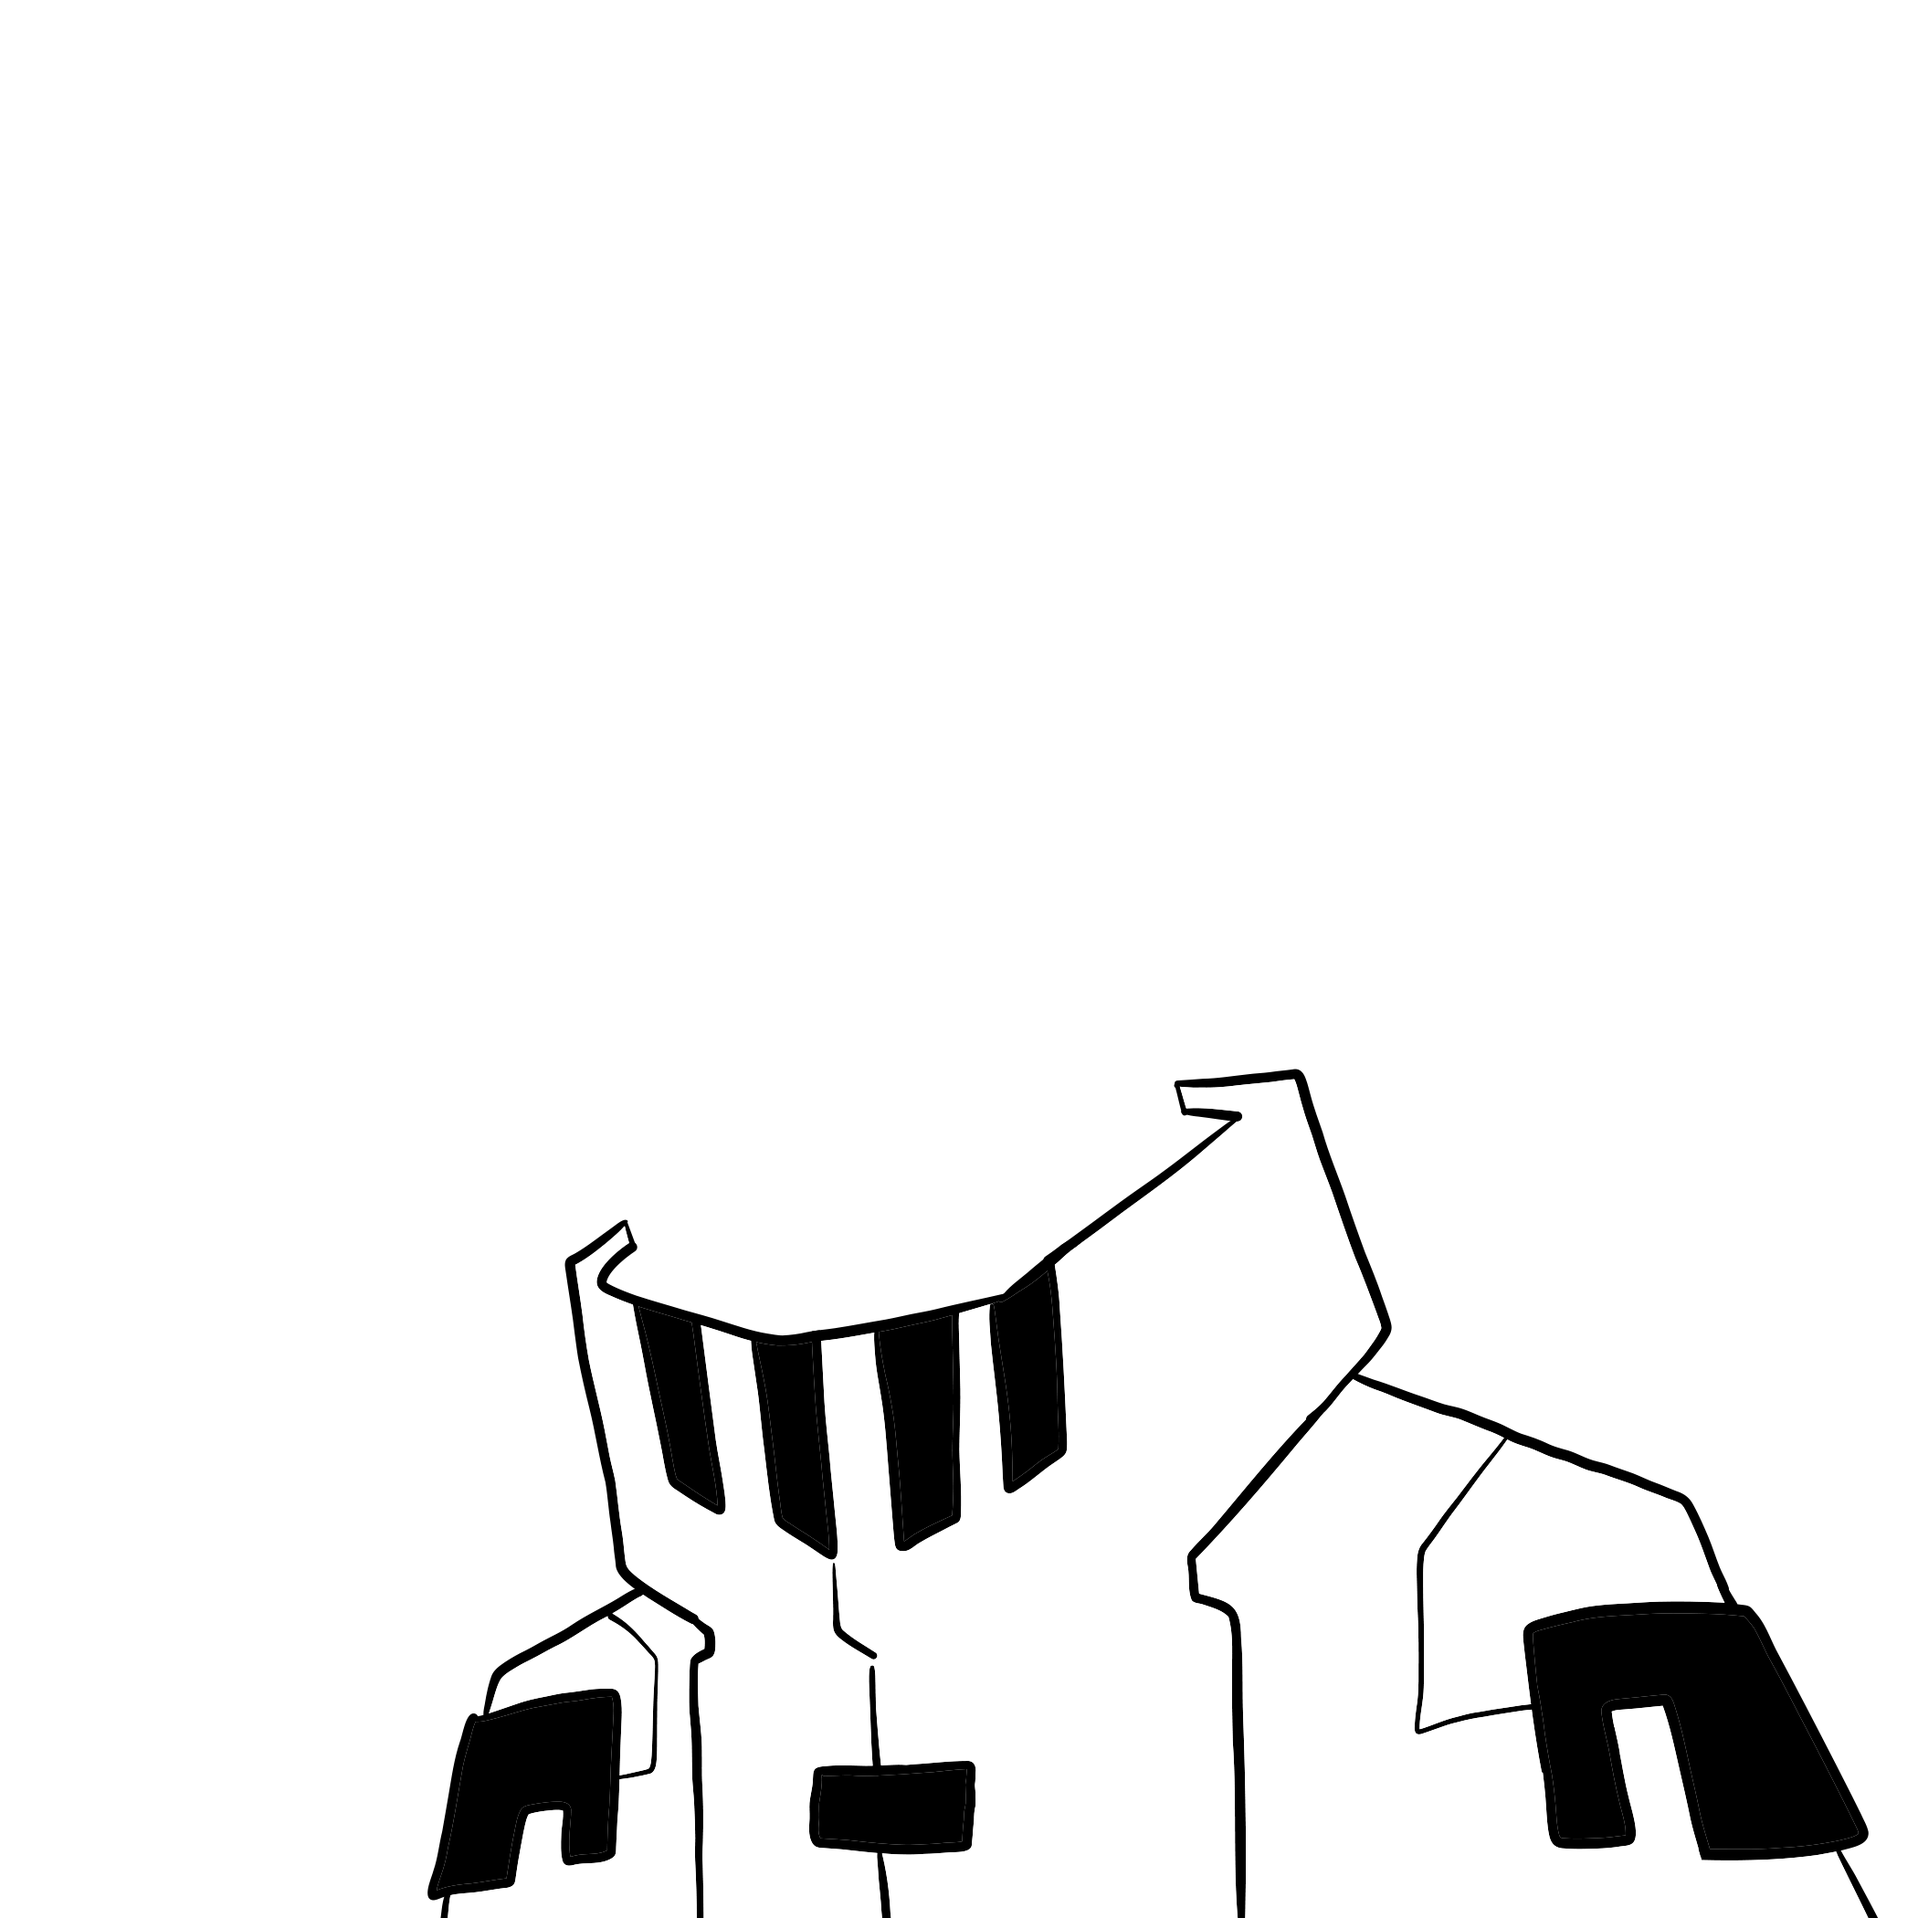
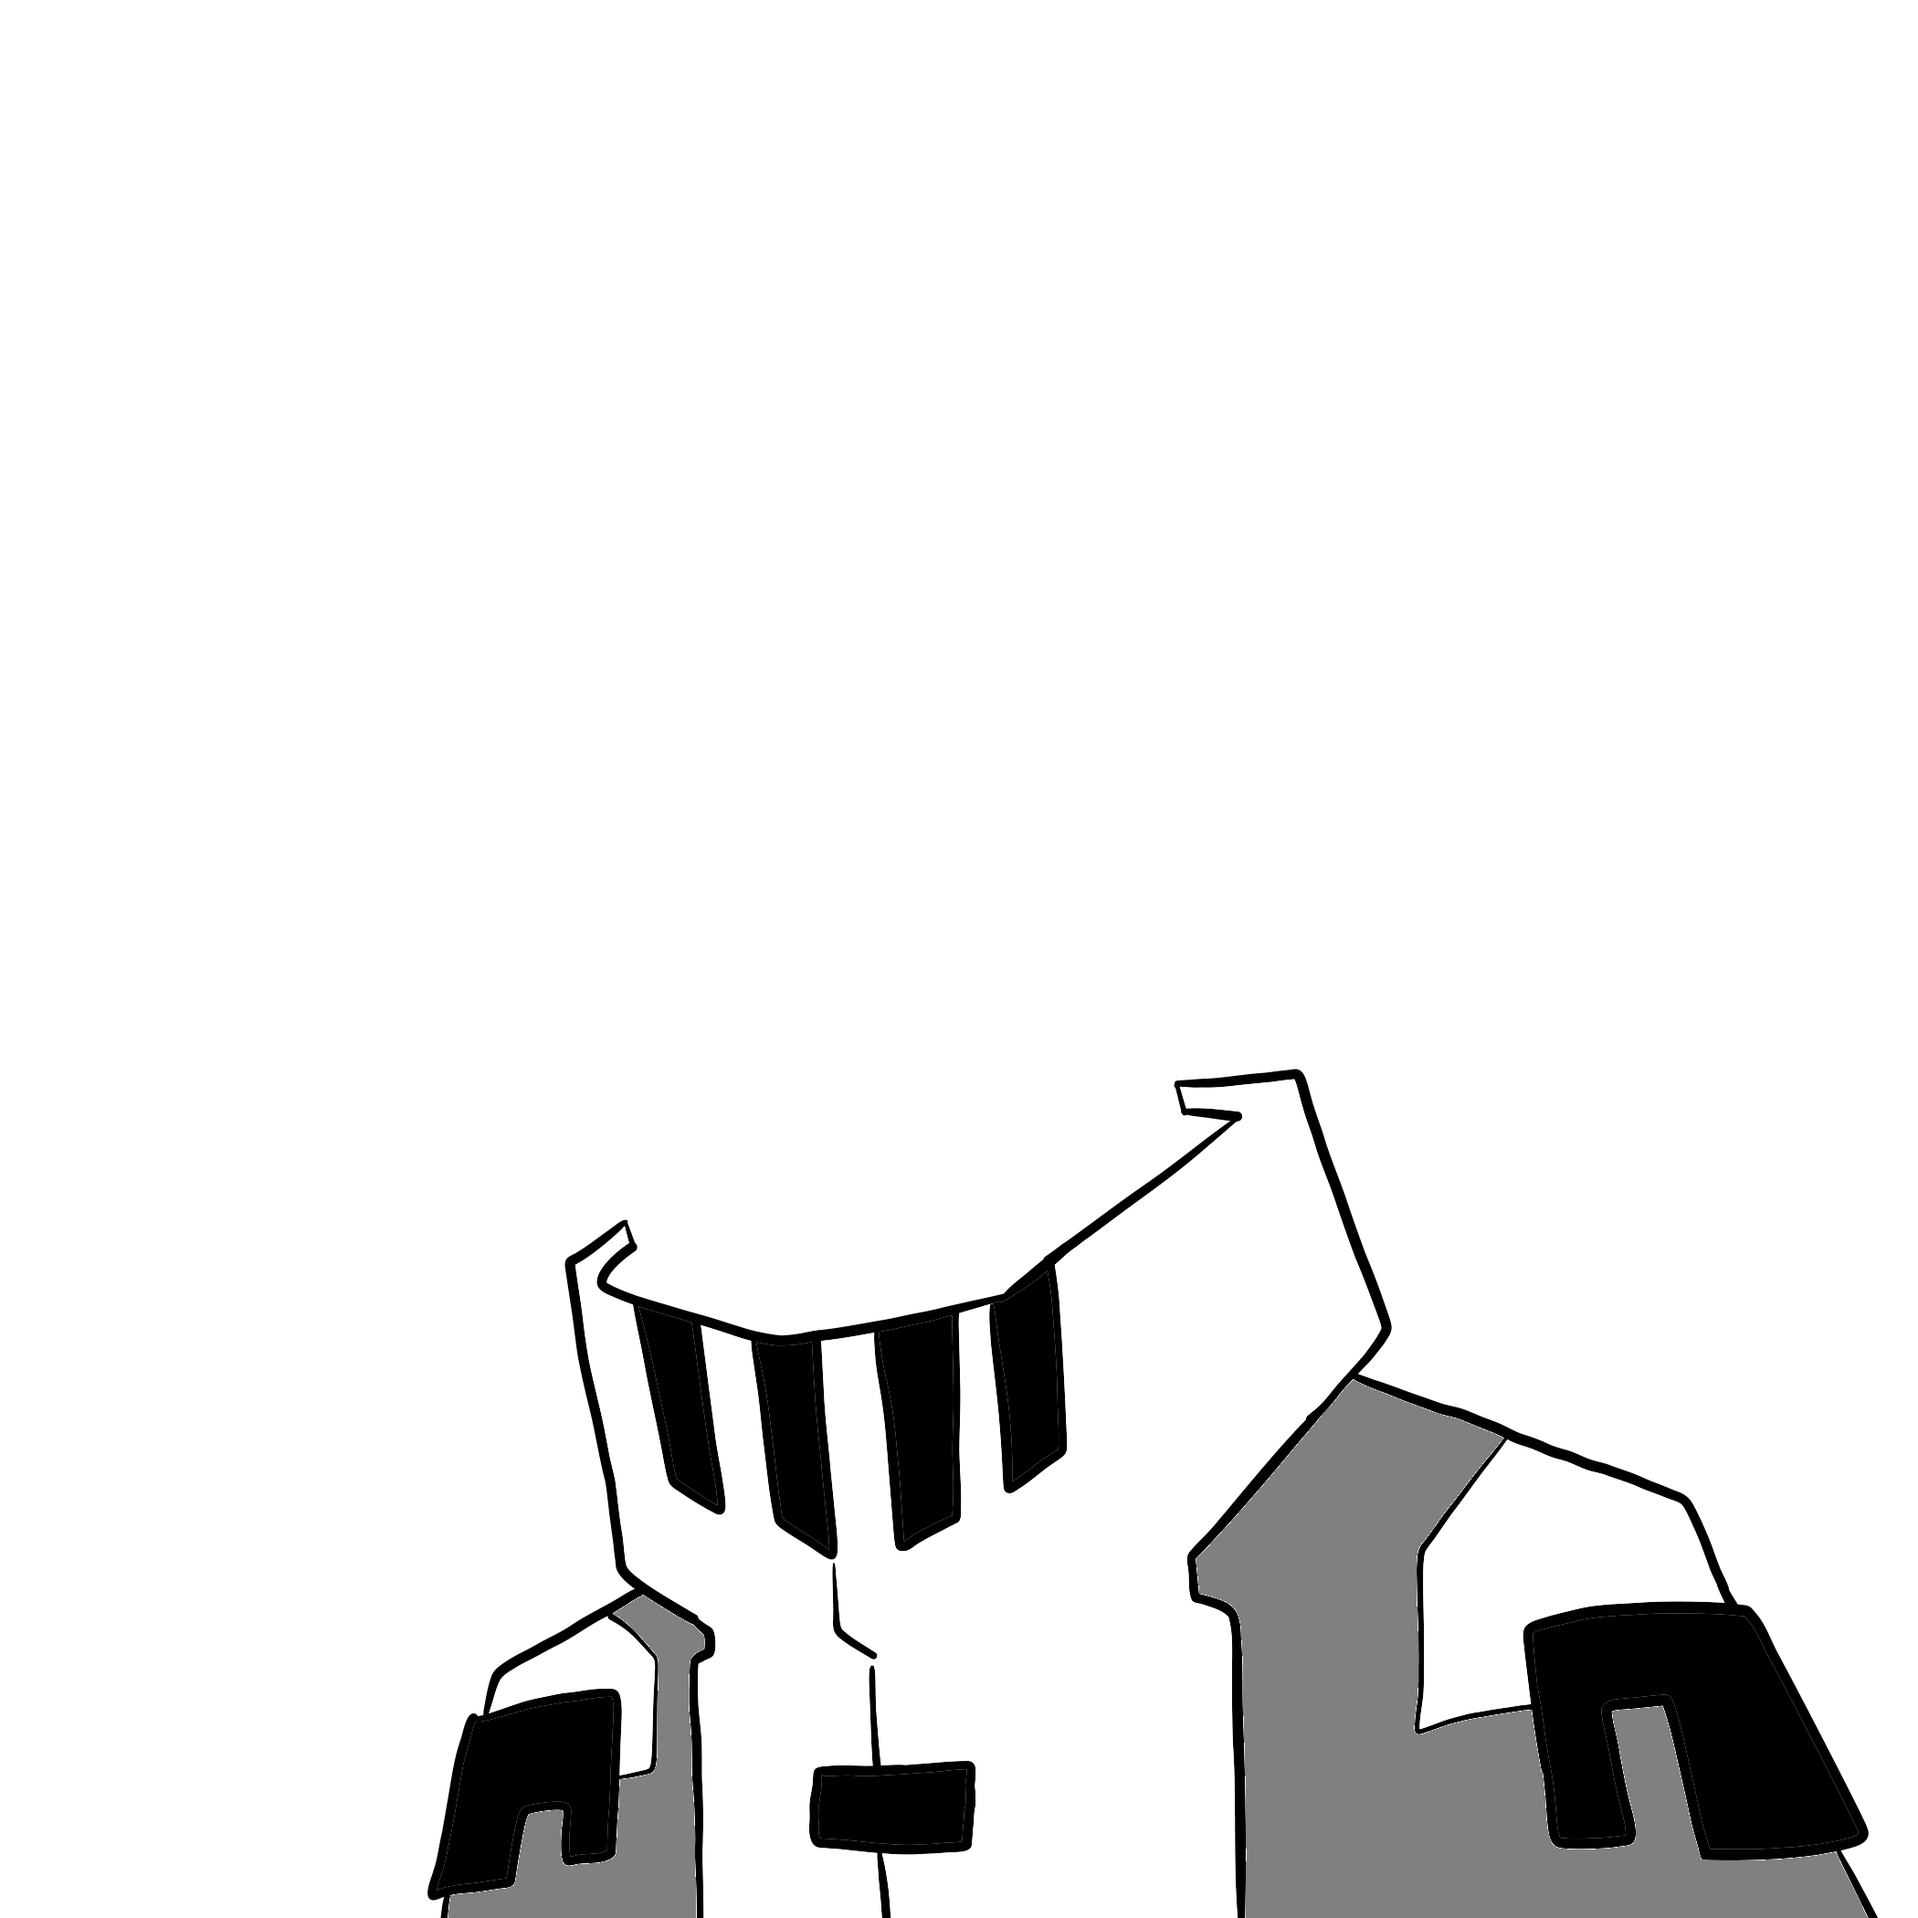
image creation logic finished

Changed region(s): [[0.619, 0.7119, 0.9905, 1.0], [0.2167, 0.8357, 0.3714, 1.0]]

diff --git a/client/utils/imageProcessing.js b/client/utils/imageProcessing.js
@@ -3,6 +3,7 @@ import path from 'path';
 import varConfig from './variablesConfig';
 
 export const composeIMG = async (paddedEntropy,  entityGeneration) => {
+  console.log(paddedEntropy, entityGeneration);
   try {
     const baseCharacterBuffer = await baseCharacterImg(entityGeneration, paddedEntropy);
     console.log('Base Character Buffer Length:', baseCharacterBuffer.length);
@@ -76,41 +77,41 @@ const variablesLayer = async (paddedEntropy, entityGeneration) => {
     `color1: ${color1}, color2: ${color2}, color3: ${color3}, color4: ${color4}`
   );
 
-  let varImage1 = await tintImage(
+  let varImage1 = await tintVariables(
     path.join(
       varConfig.variablesPath,
       generation,
       varConfig.varPaths.varPath1,
       `${varConfig.varOptions.varOptions1[optionIndex1]}.png`
     ),
-    color1
+    color1, color4
   );
-  let varImage2 = await tintImage(
+  let varImage2 = await tintVariables(
     path.join(
       varConfig.variablesPath,
       generation,
       varConfig.varPaths.varPath2,
       `${varConfig.varOptions.varOptions2[optionIndex2]}.png`
     ),
-    color2
+    color4, color3
   );
-  let varImage3 = await tintImage(
+  let varImage3 = await tintVariables(
     path.join(
       varConfig.variablesPath,
       generation,
       varConfig.varPaths.varPath3,
       `${varConfig.varOptions.varOptions3[optionIndex3]}.png`
     ),
-    color3
+    color3, color1
   );
-  let varImage4 = await tintImage(
+  let varImage4 = await tintVariables(
     path.join(
       varConfig.variablesPath,
       generation,
       varConfig.varPaths.varPath4,
       `${varConfig.varOptions.varOptions4[optionIndex4]}.png`
     ),
-    color4
+    color2, color4
   );
 
   let baseImage = sharp({
@@ -139,20 +140,22 @@ const baseCharacterImg = async (
   offsetY = 0
 ) => {
   const generation = entityGeneration.toString();
+  const entropy = paddedEntropy.toString();
   const imagePath = path.join(
     varConfig.variablesPath,
     generation,
     `baseCharacter_${generation}.png`
   );
 
-  const entropyIndexWhite = paddedEntropy.length - 2;
-  const entropyIndexGrey = paddedEntropy.length - 3;
-  const hexColorWhite = varConfig.colorOptions.characterColorOptions1[parseInt(paddedEntropy[entropyIndexWhite]) % varConfig.colorOptions.characterColorOptions1.length];
-  const hexColorGrey = varConfig.colorOptions.characterColorOptions2[parseInt(paddedEntropy[entropyIndexGrey]) % varConfig.colorOptions.characterColorOptions2.length];
+  console.log(`Looking for image at: ${imagePath}`);
 
+  const hexColorWhite = varConfig.colorOptions.characterColorOptions1[parseInt(entropy[5]) % varConfig.colorOptions.characterColorOptions1.length];
+  const hexColorGrey = varConfig.colorOptions.characterColorOptions2[parseInt(entropy[2]) % varConfig.colorOptions.characterColorOptions2.length];
+  console.log(`White color index: ${parseInt(entropy[1]) % varConfig.colorOptions.characterColorOptions1.length}, Color: ${hexColorWhite}`);
+  console.log(`Grey color index: ${parseInt(entropy[2]) % varConfig.colorOptions.characterColorOptions2.length}, Color: ${hexColorGrey}`);
   let baseCharacter = sharp(imagePath);
-
-  baseCharacter = await tintImage(imagePath, hexColorWhite, hexColorGrey);
+  console.log('initiating tint with colors:', hexColorWhite, hexColorGrey)
+  baseCharacter = await tintCharacter(imagePath, hexColorWhite, hexColorGrey);
 
   if (overlayBuffer) {
     baseCharacter = sharp(await baseCharacter.toBuffer()).composite([
@@ -164,9 +167,10 @@ const baseCharacterImg = async (
 };
 
 
-const tintImage = async (imagePath, hexColorWhite, hexColorGrey) => {
-  const rgbWhite = hexToRgb(hexColorWhite || '#ffffff'); 
-  const rgbGrey = hexToRgb(hexColorGrey || '#808080'); 
+const tintCharacter = async (imagePath, hexColorWhite, hexColorGrey) => {
+  console.log('Tinting character with colors:', hexColorWhite, hexColorGrey);
+  const rgbWhite = hexToRgb(hexColorWhite); 
+  const rgbGrey = hexToRgb(hexColorGrey); 
 
   const originalImage = sharp(imagePath);
   const { data, info } = await originalImage.raw().toBuffer({ resolveWithObject: true });
@@ -201,6 +205,47 @@ const tintImage = async (imagePath, hexColorWhite, hexColorGrey) => {
   .png()
   .toBuffer();
 };
+
+const tintVariables = async (imagePath, firstColor, secondColor) => {
+  const rgbWhite = hexToRgb(firstColor); 
+  const rgbGrey = hexToRgb(secondColor);  
+
+  const originalImage = sharp(imagePath);
+  const { data, info } = await originalImage.raw().toBuffer({ resolveWithObject: true });
+
+  for (let i = 0; i < data.length; i += 4) {
+    const isWhiteOrNearWhite = data[i] > 230 && data[i + 1] > 230 && data[i + 2] > 230;
+    const isGrey = Math.abs(data[i] - data[i + 1]) < 30 && 
+          Math.abs(data[i + 1] - data[i + 2]) < 30 && 
+          Math.abs(data[i] - data[i + 2]) < 30 &&
+          data[i] >= 10 && data[i] <= 230 &&
+          data[i + 1] >= 10 && data[i + 1] <= 230 &&
+          data[i + 2] >= 10 && data[i + 2] <= 230;
+
+    if (isWhiteOrNearWhite) {
+      data[i] = rgbWhite.r;
+      data[i + 1] = rgbWhite.g;
+      data[i + 2] = rgbWhite.b;
+    } else if (isGrey) {
+      data[i] = rgbGrey.r;
+      data[i + 1] = rgbGrey.g;
+      data[i + 2] = rgbGrey.b;
+    }
+  }
+
+
+  return sharp(data, {
+    raw: {
+      width: info.width,
+      height: info.height,
+      channels: info.channels,
+    },
+  })
+  .png()
+  .toBuffer();
+};
+
+
 
 const hexToRgb = hex => {
   hex = hex.replace(/^#/, '');

diff --git a/client/pages/api/generate-image.js b/client/pages/api/generate-image.js
@@ -1,5 +1,31 @@
 import { composeIMG } from '@/utils/imageProcessing';
 import s3 from '@/aws-config';
+import { ethers } from 'ethers';
+import { JsonRpcProvider } from '@ethersproject/providers';
+import { contractsConfig } from '@/utils/contractsConfig';
+
+
+async function startProcessing() {
+    const contract = new ethers.Contract(
+        contractsConfig.entropyGeneratorContractAddress,
+        contractsConfig.entropyGeneratorContractAbi,
+        new JsonRpcProvider(contractsConfig.infuraRPCURL)
+    );
+    console.log('starting fetch');
+    const entityGeneration = 1;
+        for (let slotIndex = 0; slotIndex < 770; slotIndex++) {
+            for (let numberIndex = 0; numberIndex < 13; numberIndex++) {
+                try {
+                    const paddedEntropy = await contract.getPublicEntropy(slotIndex, numberIndex);
+                    const url = await processImage( paddedEntropy, entityGeneration );
+                    console.log(`Processed ${paddedEntropy} in generation ${entityGeneration}: ${url}`);
+                } catch (error) {
+                    console.error(`Failed at slot ${slotIndex}, number ${numberIndex} in generation ${entityGeneration}:`, error);
+                }
+                await new Promise(resolve => setTimeout(resolve, 500));
+            }
+        }
+}
 
 async function processImage(paddedEntropy, entityGeneration) {
     const imageBuffer = await composeIMG(paddedEntropy,  entityGeneration);
@@ -11,23 +37,6 @@ async function processImage(paddedEntropy, entityGeneration) {
         return `https://traitforge.s3.amazonaws.com/${fileName}`;
     } else {
         throw new Error('Image Layering Failed');
-    }
-}
-
-async function startProcessing() {
-    let  entityGeneration = 1;
-    while ( entityGeneration <= 2) {
-        for (let entityEntropy = 0; entityEntropy <= 999999; entityEntropy++) {
-            const paddedEntropy = entityEntropy.toString().padStart(6, '0');
-            try {
-                const url = await processImage(paddedEntropy,  entityGeneration);
-                console.log(`Processed ${paddedEntropy} in generation ${ entityGeneration}: ${url}`);
-            } catch (error) {
-                console.error(`Failed at ${paddedEntropy} in generation ${ entityGeneration}:`, error);
-            }
-            await new Promise(resolve => setTimeout(resolve, 1000));
-        }
-        entityGeneration++;
     }
 }
 

diff --git a/client/utils/variablesConfig.js b/client/utils/variablesConfig.js
@@ -91,7 +91,7 @@ const config = {
       '#ff69b4', // Hot Pink
       '#800080', // Purple
       '#ba55d3', // Medium Orchid
-      '#5f617a', // Bright Shadow Blue (kept for some balance)
+      '#5f617a', // Bright Shadow Blue 
   ],
   colorOptions4: [
       '#00bdbd', // Bright Cyan
@@ -99,11 +99,11 @@ const config = {
       '#2a8eff', // Bright Blue
       '#ff4500', // Orange Red
       '#ff00ff', // Magenta
-      '#e0e1e2', // Bright Silver (kept for futuristic touch)
+      '#e0e1e2', // Bright Silver
       '#7072ff', // Neon Periwinkle
       '#32cd32', // Lime Green
       '#9400d3', // Dark Violet
-      '#1f2433', // Deep Space Blue (brightened slightly)
+      '#1f2433', // Deep Space Blue 
   ],
   characterColorOptions1: [
     '#80dcdc', // Light Cyan
@@ -129,7 +129,6 @@ const config = {
     '#c77aff', // Light Dark Violet
     '#5f6573', // Light Deep Space Blue
   ],
-
   },
 };
 

diff --git a/client/components/common/EntityCard/index.js b/client/components/common/EntityCard/index.js
@@ -11,7 +11,14 @@ const EntityCard = ({ entropy, index }) => {
   const calculateEntityPrice = index => {
     return ((index + 1) * 0.01).toFixed(2);
   };
-
+  const calculateUri = (entropy, generation) => {
+    console.log(entropy);
+    const paddedEntropy = entropy.toString().padStart(6, '0');
+    return `${paddedEntropy}_${generation}`;
+  };
+  const uri = calculateUri(entropy, 1); 
+  console.log(uri);
+  
 
   return (
     <div
@@ -26,7 +33,7 @@ const EntityCard = ({ entropy, index }) => {
       <div className="w-full h-auto p-5">
         <Image
           loading="lazy"
-          src="/images/traitforgertransparent.png"
+          src={`https://traitforge.s3.ap-southeast-2.amazonaws.com/${uri}.jpeg`}
           alt="Entity"
           className="card-image"
           width={200}
